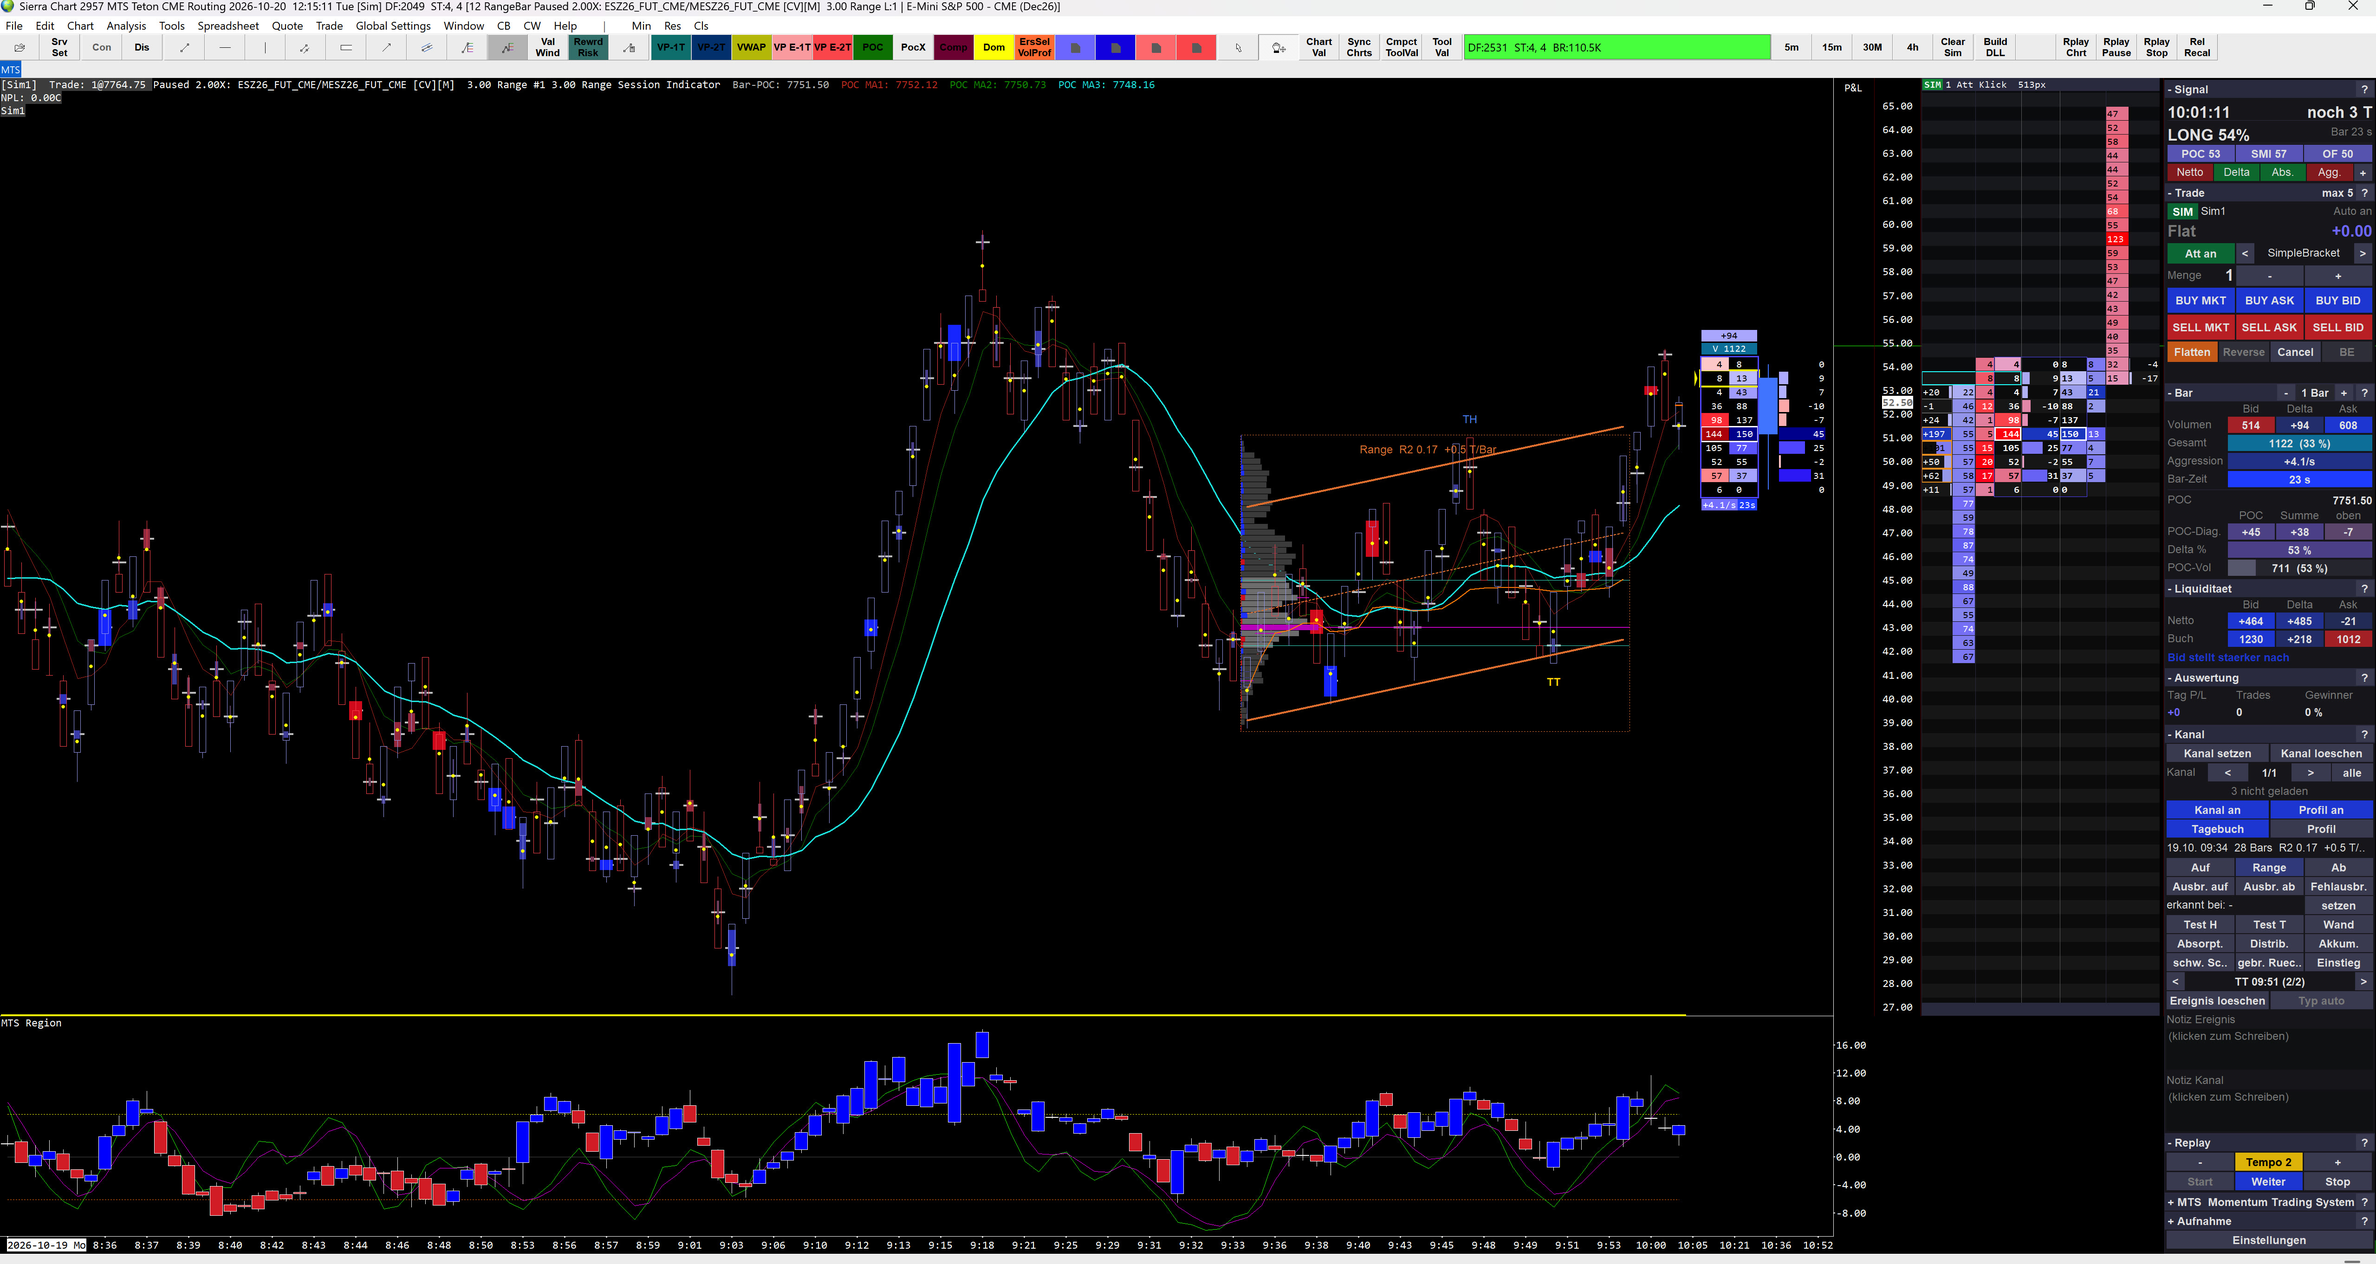
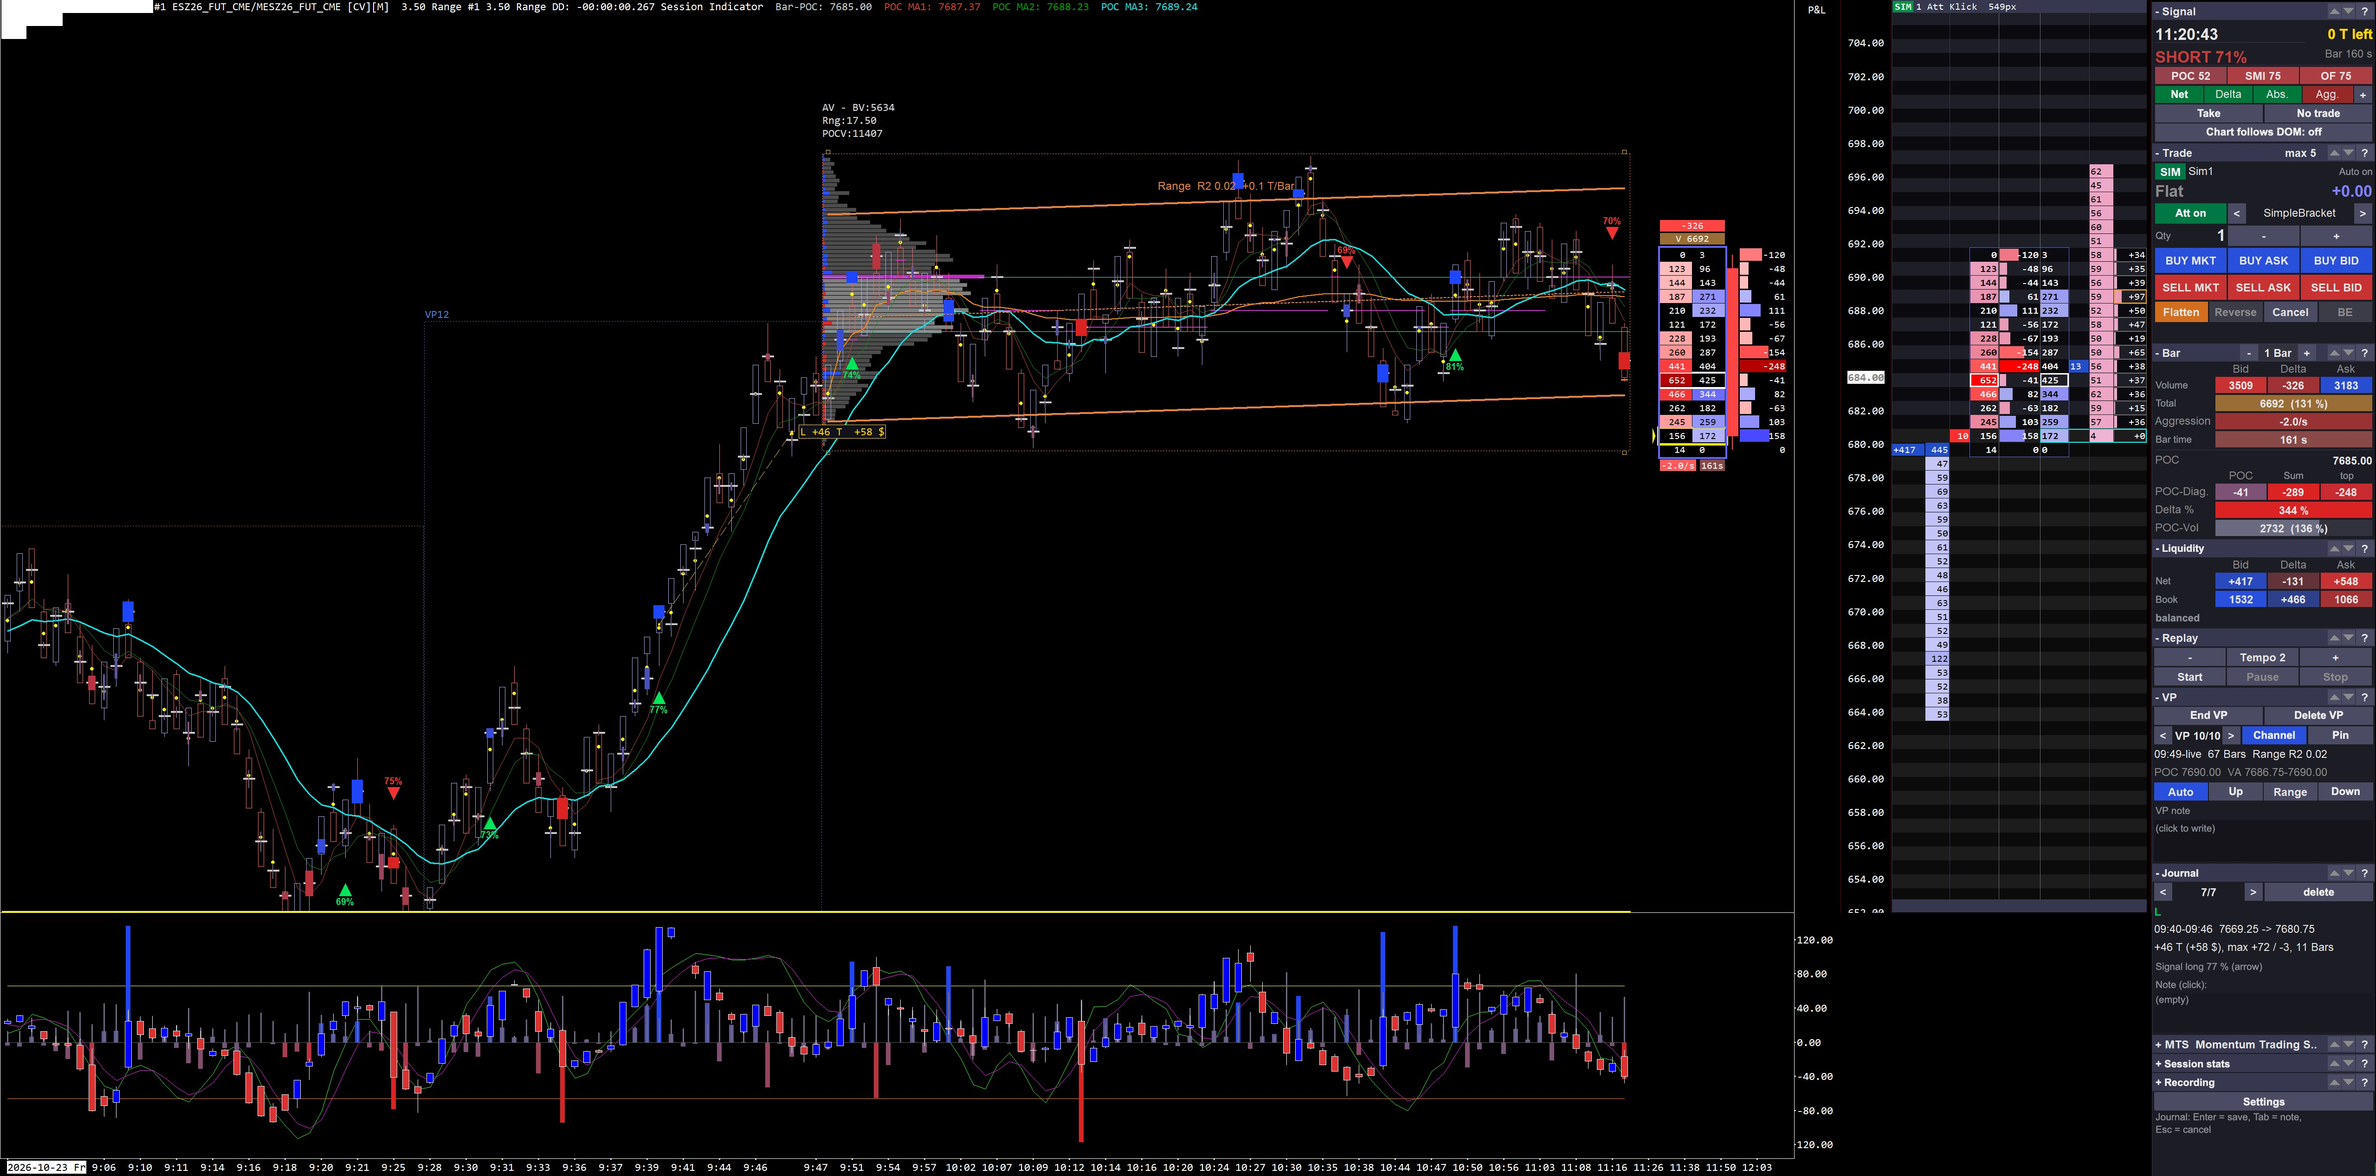
New tour: English labels, journal, VP tile

diff --git a/index.html b/index.html
@@ -19,7 +19,7 @@
   .hs { position:absolute; border:1.5px solid rgba(224,166,58,.35); border-radius:4px; cursor:pointer; transition:border-color .2s, background .2s; }
   .hs:hover, .hs.on { border-color:var(--hot); background:rgba(224,166,58,.10); }
   .hs.on { box-shadow:0 0 0 2px rgba(224,166,58,.35); }
-  .hs i { position:absolute; top:-9px; left:-9px; width:18px; height:18px; border-radius:50%; background:var(--acc); color:#111; font:700 11px/18px sans-serif; text-align:center; font-style:normal; }
+  .hs i { position:absolute; top:3px; left:3px; width:18px; height:18px; border-radius:50%; background:var(--acc); color:#111; font:700 11px/18px sans-serif; text-align:center; font-style:normal; }
   .hs.tip::after { content:attr(data-t); position:absolute; left:50%; top:50%; transform:translate(-50%,-50%); background:rgba(11,14,19,.9); color:var(--fg); padding:3px 8px; border-radius:4px; font-size:12px; white-space:nowrap; opacity:0; transition:opacity .2s; pointer-events:none; }
   .hs.tip:hover::after { opacity:1; }
   .stage.pulse .hs { animation:pl 1.6s ease-in-out 2; }
@@ -43,58 +43,66 @@
 <header>
   <h1><span>MTS</span> – Momentum Trading System · interactive tour</h1>
   <p>A custom trading interface built entirely inside Sierra Chart – only with the official ACSIL study interface, no external program, no rebuild of other software.
-  Click a highlighted area to see what it does.</p>
+  Click a highlighted area to see what it does – including the journal that turns every trade idea into a case.</p>
 </header>
 <div class="wrap">
   <div class="stage pulse" id="stage"><img src="screen.jpg" alt="MTS screenshot in Sierra Chart" id="img"></div>
   <aside id="panel"></aside>
 </div>
-<footer>Screenshot from Sierra Chart replay, simulated account. Not investment advice. © 2026 chrislb</footer>
+<footer>Screenshots from Sierra Chart (labels shown in English), simulated account. Not investment advice. © 2026 chrislb</footer>
 <script>
-// Zwei Ansichten: Hauptbild und Einstellungen. Bereiche in Einheiten der 1600-px-Ansicht.
-const V = { main: { src:'screen.jpg', W:1600, H:851.6 }, set: { src:'settings.jpg', W:1600, H:861.9 } };
+// Zwei Ansichten: Hauptbild (Stand 2026-10-23) und Einstellungen. Bereiche in Einheiten der 1600-px-Ansicht.
+const V = { main: { src:'screen.jpg', W:1600, H:791.9 }, set: { src:'settings.jpg', W:1600, H:861.9 } };
 const A = [
- { id:'intro', t:'Overview', r:null, show:'One chartbook, only own studies: price chart with channel, footprint bar and diagonal delta, an order-flow DOM, an indicator region and – on the right – the Cockpit, a column of tiles that replaces most of the classic dialogs.',
-   why:'Everything a discretionary order-flow trader needs while the market moves, in one place and readable at a glance.',
+ { id:'intro', t:'Overview', r:null, show:'One chartbook, only own studies: price chart with volume profiles, channels and journal entries, footprint bar and diagonal delta, an order-flow DOM, an indicator region and – on the right – the Cockpit, a column of tiles that replaces most of the classic dialogs.',
+   why:'Everything a discretionary order-flow trader needs while the market moves, in one place – and every situation can be recorded as a case to learn from.',
    where:'All settings live in the Cockpit drawer (one key per setting, applied instantly). Every tile has a "?" that opens its manual chapter.' },
- { id:'chart', t:'Price chart', r:[0,62,1235,620], show:'Example: 12-tick range bars – any bar type works. Per bar: <b>yellow dot</b> = 1-bar VWAP (the bar’s centre of gravity), <b>thin cross line</b> = bar POC, <b>red / blue box</b> = POC delta: its height is the volume at the POC, its width the delta. Plus three POC moving averages.',
+ { id:'chart', t:'Price chart', r:[0,10,1100,600], show:'Example: 3.5-point range bars – any bar type works. Per bar: <b>yellow dot</b> = 1-bar VWAP (the bar’s centre of gravity), <b>thin cross line</b> = bar POC, <b>red / blue box</b> = POC delta: its height is the volume at the POC, its width the delta. Plus three POC moving averages.',
    why:'See inside every bar where volume really traded, where its weight sits and who won at the POC – without opening a footprint chart.',
    where:'Indicators can be switched on and off one by one in the drawer (groups "Indicators").' },
- { id:'chan', t:'Channel with profile and journal marks', r:[833,276,268,218], show:'A channel marked with two clicks: regression line with ±σ band, label with type, R² and slope in ticks per bar ("Range R2 0.17 +0.5 T/Bar"). On the left its own volume profile with POC (magenta) and value area. Journal events appear as short marks in the chart – here TH (test of the high) and TT (test of the low).',
-   why:'Every range or trend you mark becomes a documented case: what happened, where, with which volume – checkable later in the chart.',
-   where:'Set, browse and annotate in the Channels tile; profile and channel lines can be switched separately.' },
- { id:'fp', t:'Footprint bar in the chart', r:[1144,220,43,126], show:'Bid | Ask per price level for the live bar (and up to 20 bars next to each other). The diagonally dominant side is coloured, a white frame marks the POC, a gold frame absorption at the extreme, yellow the current price. Header: delta and volume vs. normal; footer: aggression (delta per second) and bar duration.',
+ { id:'vp', t:'Volume profile with channel', r:[550,62,550,245], show:'A volume profile set with two clicks (start and end bar, or running live). Info block with range and POC volume, POC and value area. Optional regression channel with ±σ band and a label with type, R² and slope in ticks per bar ("Range R2 0.02 +0.1 T/Bar").',
+   why:'Every range or trend you mark gets its own profile – the anchor for your notes and journal entries.',
+   where:'VP tile: set / end / delete, browse, channel on/off, pin, type.' },
+ { id:'jchart', t:'Journal: trades in the chart', r:[522,262,92,46], show:'A trade recorded in hindsight: dashed line from entry to exit (green = long, red = short) and a label with the code and the result in ticks and in $ for one contract – here <b>L +46 T +58 $</b>.',
+   why:'Your trades – real or "would have taken" – stay visible exactly where they happened.',
+   where:'Ctrl+click in the chart (see "How to journal").' },
+ { id:'fp', t:'Footprint bar in the chart', r:[1116,146,48,174], show:'Bid | Ask per price level for the live bar (and up to 20 bars next to each other). The diagonally dominant side is coloured, a white frame marks the POC, a gold frame absorption at the extreme, yellow the current price. Header: delta and volume vs. normal; footer: aggression (delta per second) and bar duration.',
    why:'Read the running bar right where price is – without looking away to a separate footprint chart.',
    where:'Number of bars with [–] N Bar [+] in the Bar tile, or synchronised with the DOM footprint.' },
- { id:'diag', t:'Diagonal delta', r:[1187,236,46,110], show:'Next to the bar candle: the diagonal difference Ask[P] – Bid[P–1] per level as bar and number – blue where buyers lift, red where sellers hit.',
+ { id:'diag', t:'Diagonal delta', r:[1164,164,45,140], show:'Next to the bar candle: the diagonal difference Ask[P] – Bid[P–1] per level as bar and number – blue where buyers lift, red where sellers hit.',
    why:'Shows at which levels the aggressive side really won – the core of reading imbalance.',
    where:'Colours and on/off in the drawer (group "Numberbar").' },
- { id:'dom', t:'Order-flow DOM', r:[1293,52,162,633], show:'Book, net change (pulling / stacking), footprint over the last N bars, diagonal delta and time & sales in one ladder. The column order is free (24 layouts), the ask side mirrors the bid side. POC and absorption are framed like in the chart.<br><br><b>Net change – live from the order book, per level:</b><br><code>Net = book now − book at bar start + volume traded at the level</code><br>Adding back what was traded separates real limit changes from fills: <b>+ = stacking</b> (new limits), <b>− = pulling</b> (limits removed). A grey frame means the level changed sides during the bar – net counts only since then.',
+ { id:'dom', t:'Order-flow DOM', r:[1272,0,176,610], show:'Book, net change (pulling / stacking), footprint over the last N bars, diagonal delta and time & sales in one ladder. The column order is free (24 layouts), the ask side mirrors the bid side. POC and absorption are framed like in the chart.<br><br><b>Net change – live from the order book, per level:</b><br><code>Net = book now − book at bar start + volume traded at the level</code><br>Adding back what was traded separates real limit changes from fills: <b>+ = stacking</b> (new limits), <b>− = pulling</b> (limits removed). A grey frame means the level changed sides during the bar – net counts only since then.',
    why:'One ladder instead of three windows – and you see whether liquidity is really there or just being pulled.',
    where:'Columns, colours and footprint bars in the drawer (group "DOM"); click-trading follows the Trade tile.' },
- { id:'region', t:'Indicator region', r:[0,686,1235,150], show:'One sub-window for all oscillators: SMI, cumulative delta, DeltaValue candles and more – each one switchable, scaled automatically per group.',
+ { id:'region', t:'Indicator region', r:[0,615,1210,165], show:'One sub-window for all oscillators: SMI, cumulative delta, DeltaValue candles and more – each one switchable, scaled automatically per group.<br><br>And of course <b>every standard Sierra Chart study can still be used</b> – in this region, in the chart or in other windows. MTS only adds its own studies, it doesn’t replace or block anything.',
    why:'No more stack of separate indicator panes and subgraph settings.',
    where:'Switches per region in the drawer (group "Region").' },
- { id:'sig', t:'Signal', tag:'preview', r:[1457,55,143,68], show:'Clock, countdown to bar end and a combined direction score from several building blocks.',
+ { id:'sig', t:'Signal', tag:'preview', r:[1449,0,151,97], show:'Clock, countdown to bar end and a combined direction score from several building blocks. <b>Take</b> / <b>No trade</b> write the decision straight into the journal.',
    why:'Shown here only as a preview – it is not part of the first test version.',
    where:'—' },
- { id:'trade', t:'Trade tile', r:[1457,124,143,122], show:'SIM / LIVE, quantity, bracket template, attached orders on/off, market / ask / bid buttons, flatten, reverse, cancel, break-even, max position.',
+ { id:'trade', t:'Trade tile', r:[1449,97,151,122], show:'SIM / LIVE, quantity, bracket template, attached orders on/off, market / ask / bid buttons, flatten, reverse, cancel, break-even, max position.',
    why:'All order actions with one click, with clear status of account and position.',
    where:'Quantity, max position and live permission per market in the drawer (group "Trade").' },
- { id:'bar', t:'Bar tile', r:[1457,258,143,132], show:'For a window of N bars: volume bid | delta | ask, total vs. average of equal windows (%), aggression, bar time (faster / slower). Below: POC, POC diagonals, POC delta % and POC volume.',
+ { id:'bar', t:'Bar tile', r:[1449,229,151,133], show:'For a window of N bars: volume bid | delta | ask, total vs. average of equal windows (%), aggression, bar time (faster / slower). Below: POC, POC diagonals, POC delta % and POC volume.',
    why:'Is this bar special? Every number is compared with what is normal right now.',
    where:'Window size directly in the header: [–] N Bar [+].' },
- { id:'liqt', t:'Liquidity tile', r:[1457,391,143,58], show:'Net change bid | delta | ask of the running bar (same live calculation as in the DOM), the book of the visible DOM levels and a verdict which side is stacking more.',
+ { id:'liqt', t:'Liquidity tile', r:[1449,363,151,59], show:'Net change bid | delta | ask of the running bar (same live calculation as in the DOM), the book of the visible DOM levels and a verdict which side is stacking more.',
    why:'The liquidity story of the bar in one line.',
    where:'Colours in the drawer (group "Cockpit: colours").' },
- { id:'eval', t:'Session stats', r:[1457,451,143,37], show:'Day P/L, number of trades and win rate of the account.', why:'Quick reality check during the session.', where:'—' },
- { id:'kanal', t:'Channels & journal', r:[1457,489,143,256], show:'Set and delete channels, browse and filter them, switch channel lines and profile. The journal: type (up / range / down), outcome (breakout up / down, false breakout), "recognised at", nine events (test high / low, wall, absorption, distribution, accumulation, weak push, slowed pullback, entry) and notes for the channel and for each event.',
-   why:'Collect your own market situations as cases – the basis for checking your ideas later instead of guessing.',
-   where:'Everything in this tile; events: click the button, then the bar.' },
- { id:'replay', t:'Replay', r:[1457,765,143,39], show:'Start at the last visible bar, tempo –/+ (0.5 to 200), pause / resume, stop. The standard replay box is hidden.',
+ { id:'replay', t:'Replay', r:[1449,423,151,40], show:'Start at the last visible bar, tempo –/+ (0.5 to 200), pause / resume, stop. The standard replay box is hidden.',
    why:'Practise and review without hunting through menus.',
    where:'Start tempo and which charts follow (single / all / linked) in the drawer.' },
- { id:'mts', t:'Settings button', r:[1457,804,143,40], show:'Below the (collapsed) status tile: the "Settings" button. It replaces the tile column with the settings drawer – <b>click it in the picture</b> or press Next.',
+ { id:'vpt', t:'VP tile', r:[1449,463,151,120], show:'Set, end and delete volume profiles, browse them (VP 10/10), switch the regression channel, pin a VP so it stays visible, set its type (auto / up / range / down) and write a note. Below: time range, bars, type, R², POC and value area.',
+   why:'The profile is the anchor of every case – what happened in this range or trend.',
+   where:'Everything in this tile; defaults in the drawer (groups "Channel").' },
+ { id:'jtile', t:'Journal tile', r:[1449,584,151,112], show:'Browse all entries (7/7). For each: codes and text, time and prices (09:40–09:46, 7669.25 → 7680.75), the result <b>+46 T (+58 $)</b>, the largest run for and against (max +72 / –3), number of bars, the signal at that bar and a note.',
+   why:'Every trade idea becomes a documented case with its numbers – not a memory.',
+   where:'Click the header line to edit, "delete" to remove.' },
+ { id:'jhow', t:'How to journal', r:[1449,745,151,25], show:'One function for everything:<ul><li><b>Ctrl+click</b> a bar = entry at that bar</li><li><b>Shift+Ctrl+click</b> bar 1, then click bar 2 = entry over two bars</li><li>The code decides: <b>L / S</b> = trade (entry → exit, result calculated), <b>NT</b> = signal not traded, anything else = info (e.g. FBO, absorption)</li><li>A small input window opens next to the bar; Enter = save, Tab = note, Esc = cancel</li><li>Live: <b>Take</b> / <b>No trade</b> in the Signal tile</li></ul>All values behind each entry (bars, order flow, liquidity, profile) are exported for later evaluation.',
+   why:'Recording must take seconds – otherwise nobody does it. This is the basis for testing your own ideas instead of guessing.',
+   where:'Codes list and label style in the drawer; the hint line at the bottom of the Cockpit shows the keys.' },
+ { id:'mts', t:'Settings button', r:[1449,697,151,50], show:'Below the collapsed tiles (MTS status, session stats, recording): the "Settings" button. It replaces the tile column with the settings drawer – <b>click it in the picture</b> or press the button below.',
    why:'One compute core calculates every value once; all displays only draw – and all of them are configured in one place.',
    where:'Click "Settings".', go:'s_drawer' },
  // --- Einstellungen ---
@@ -112,7 +120,7 @@ const A = [
  { id:'s_help', v:'set', t:'Help line', r:[1457,806,143,44], show:'The help text of the row under the mouse: what it does, the default and the internal key (here SIG_SCHWELLE).',
    why:'The explanation is where you need it – no separate documentation needed.', where:'Bottom of the drawer.' },
  { id:'s_close', v:'set', t:'Back to the Cockpit', r:[1583,56,15,13], show:'The × closes the drawer and the tiles return. The lock next to it protects against accidental changes.',
-   why:'', where:'Click × (or "Next" here).', go:'intro' },
+   why:'', where:'Click × (or the button below).', go:'intro' },
 ];
 const stage = document.getElementById('stage'), panel = document.getElementById('panel'), img = document.getElementById('img');
 let cur = 0, view = 'main';
